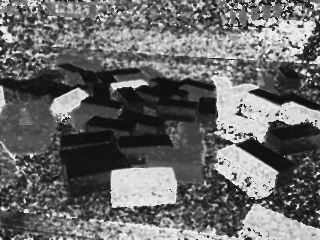
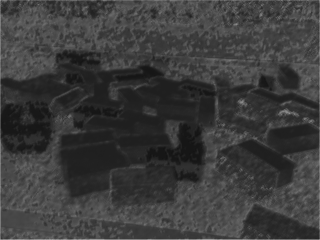
asdfafsd

diff --git a/itd-cv/ftc-cv-pt.py b/itd-cv/ftc-cv-pt.py
@@ -29,61 +29,80 @@ class PixelWiseColorRegression(nn.Module):
         return F.sigmoid(torch.sum(x * self.p, dim=1, keepdim=True) + self.b)
 
 
-class PixelWiseHSVRegression(nn.Module):
+class PixelWiseSinosodialRegression(nn.Module):
     def __init__(self):
         super().__init__()
 
         self.w = nn.Parameter(torch.randn(4, 1, 1))
         self.b = nn.Parameter(torch.randn(1, 1))
 
-    def rgb_to_hsv_cos_sin(self, x):
-        R, G, B = x[:, 0], x[:, 1], x[:, 2]
-
-        Cmax = torch.max(x, dim=1).values
-        Cmin = torch.min(x, dim=1).values
-        delta = Cmax - Cmin + 1e-6
-
-        H = torch.zeros_like(R)
-        mask = Cmax == R
-        H[mask] = ((G - B) / delta)[mask] % 6
-        mask = Cmax == G
-        H[mask] = ((B - R) / delta + 2)[mask]
-        mask = Cmax == B
-        H[mask] = ((R - G) / delta + 4)[mask]
-        H = H * (torch.pi / 3)
-
-        S = delta / (Cmax + 1e-6)
-
-        V = Cmax
-
-        H_cos = torch.cos(H)
-        H_sin = torch.sin(H)
-
-        return torch.stack([H_cos, H_sin, S, V], dim=1)
-
     def forward(self, x):
-        hsv_feat = self.rgb_to_hsv_cos_sin(x)
+        # batch, (h, s, v), width, height
+        # sin and cos of h, s, and v.
+        h = x[:, 0:1, :, :]
+        s = x[:, 1:2, :, :]
+        v = x[:, 2:3, :, :]
+
+        hsv_feat = torch.cat([torch.sin(h), torch.cos(h), s, v], dim=1)
+
         out = torch.sum(hsv_feat * self.w, dim=1, keepdim=True) + self.b
         out = torch.sigmoid(out)
         return out
 
 
+class SinosodialOneLayerCnn(nn.Module):
+    def __init__(self):
+        super().__init__()
+
+        self.w = nn.Parameter(torch.randn(4, 1, 1))
+        self.b = nn.Parameter(torch.randn(1, 1))
+
+        self.conv = nn.Conv2d(4, 4, kernel_size=3, padding=1)
+
+    def forward(self, x):
+        # batch, (h, s, v), width, height
+        # sin and cos of h, s, and v.
+        h = x[:, 0:1, :, :]
+        s = x[:, 1:2, :, :]
+        v = x[:, 2:3, :, :]
+
+        hsv_feat = torch.cat([torch.sin(h), torch.cos(h), s, v], dim=1)
+
+        feat = self.conv(hsv_feat)
+
+        out = torch.sum(feat * self.w, dim=1, keepdim=True) + self.b
+
+        out = torch.sigmoid(out)
+        return out
+
+
 import glob
+import os
 
 real_images = []
 mask_images = []
-for file in glob.glob("data/task-*.png"):
-    if "annotation" in file:
+for file in glob.glob("data/*.png"):
+    if "-" in file:
         continue
     else:
-        real_images.append(file)
-        n = int(file.split("-")[1].split(".png")[0])
-        mask_images.append(file.replace(".png", f"-annotation-{n}-by-1-tag-blue-0.png"))
+        n = int(file.split("/")[1].split(".png")[0])
+        mask_file = file.replace(".png", f"-blue.png")
+
+        if os.path.exists(mask_file):
+            real_images.append(file)
+            mask_images.append(mask_file)
 
 from torchvision.transforms import v2
 
+
+def rgbToHsvTransform(image):
+    image = image.convert("HSV")
+    return image
+
+
 transforms = v2.Compose(
     [
+        rgbToHsvTransform,
         v2.ToImage(),
         v2.ToDtype(torch.float32, scale=True),
     ]
@@ -118,7 +137,7 @@ dset = MyDataset(transforms, real_images, mask_images)
 loader = DataLoader(dset, batch_size=1, shuffle=True)
 from tqdm import trange
 
-net = PixelWiseHSVRegression()
+net = SinosodialOneLayerCnn()
 optimizer = torch.optim.Adam(net.parameters(), lr=1e-3)
 criterion = nn.MSELoss()
 
